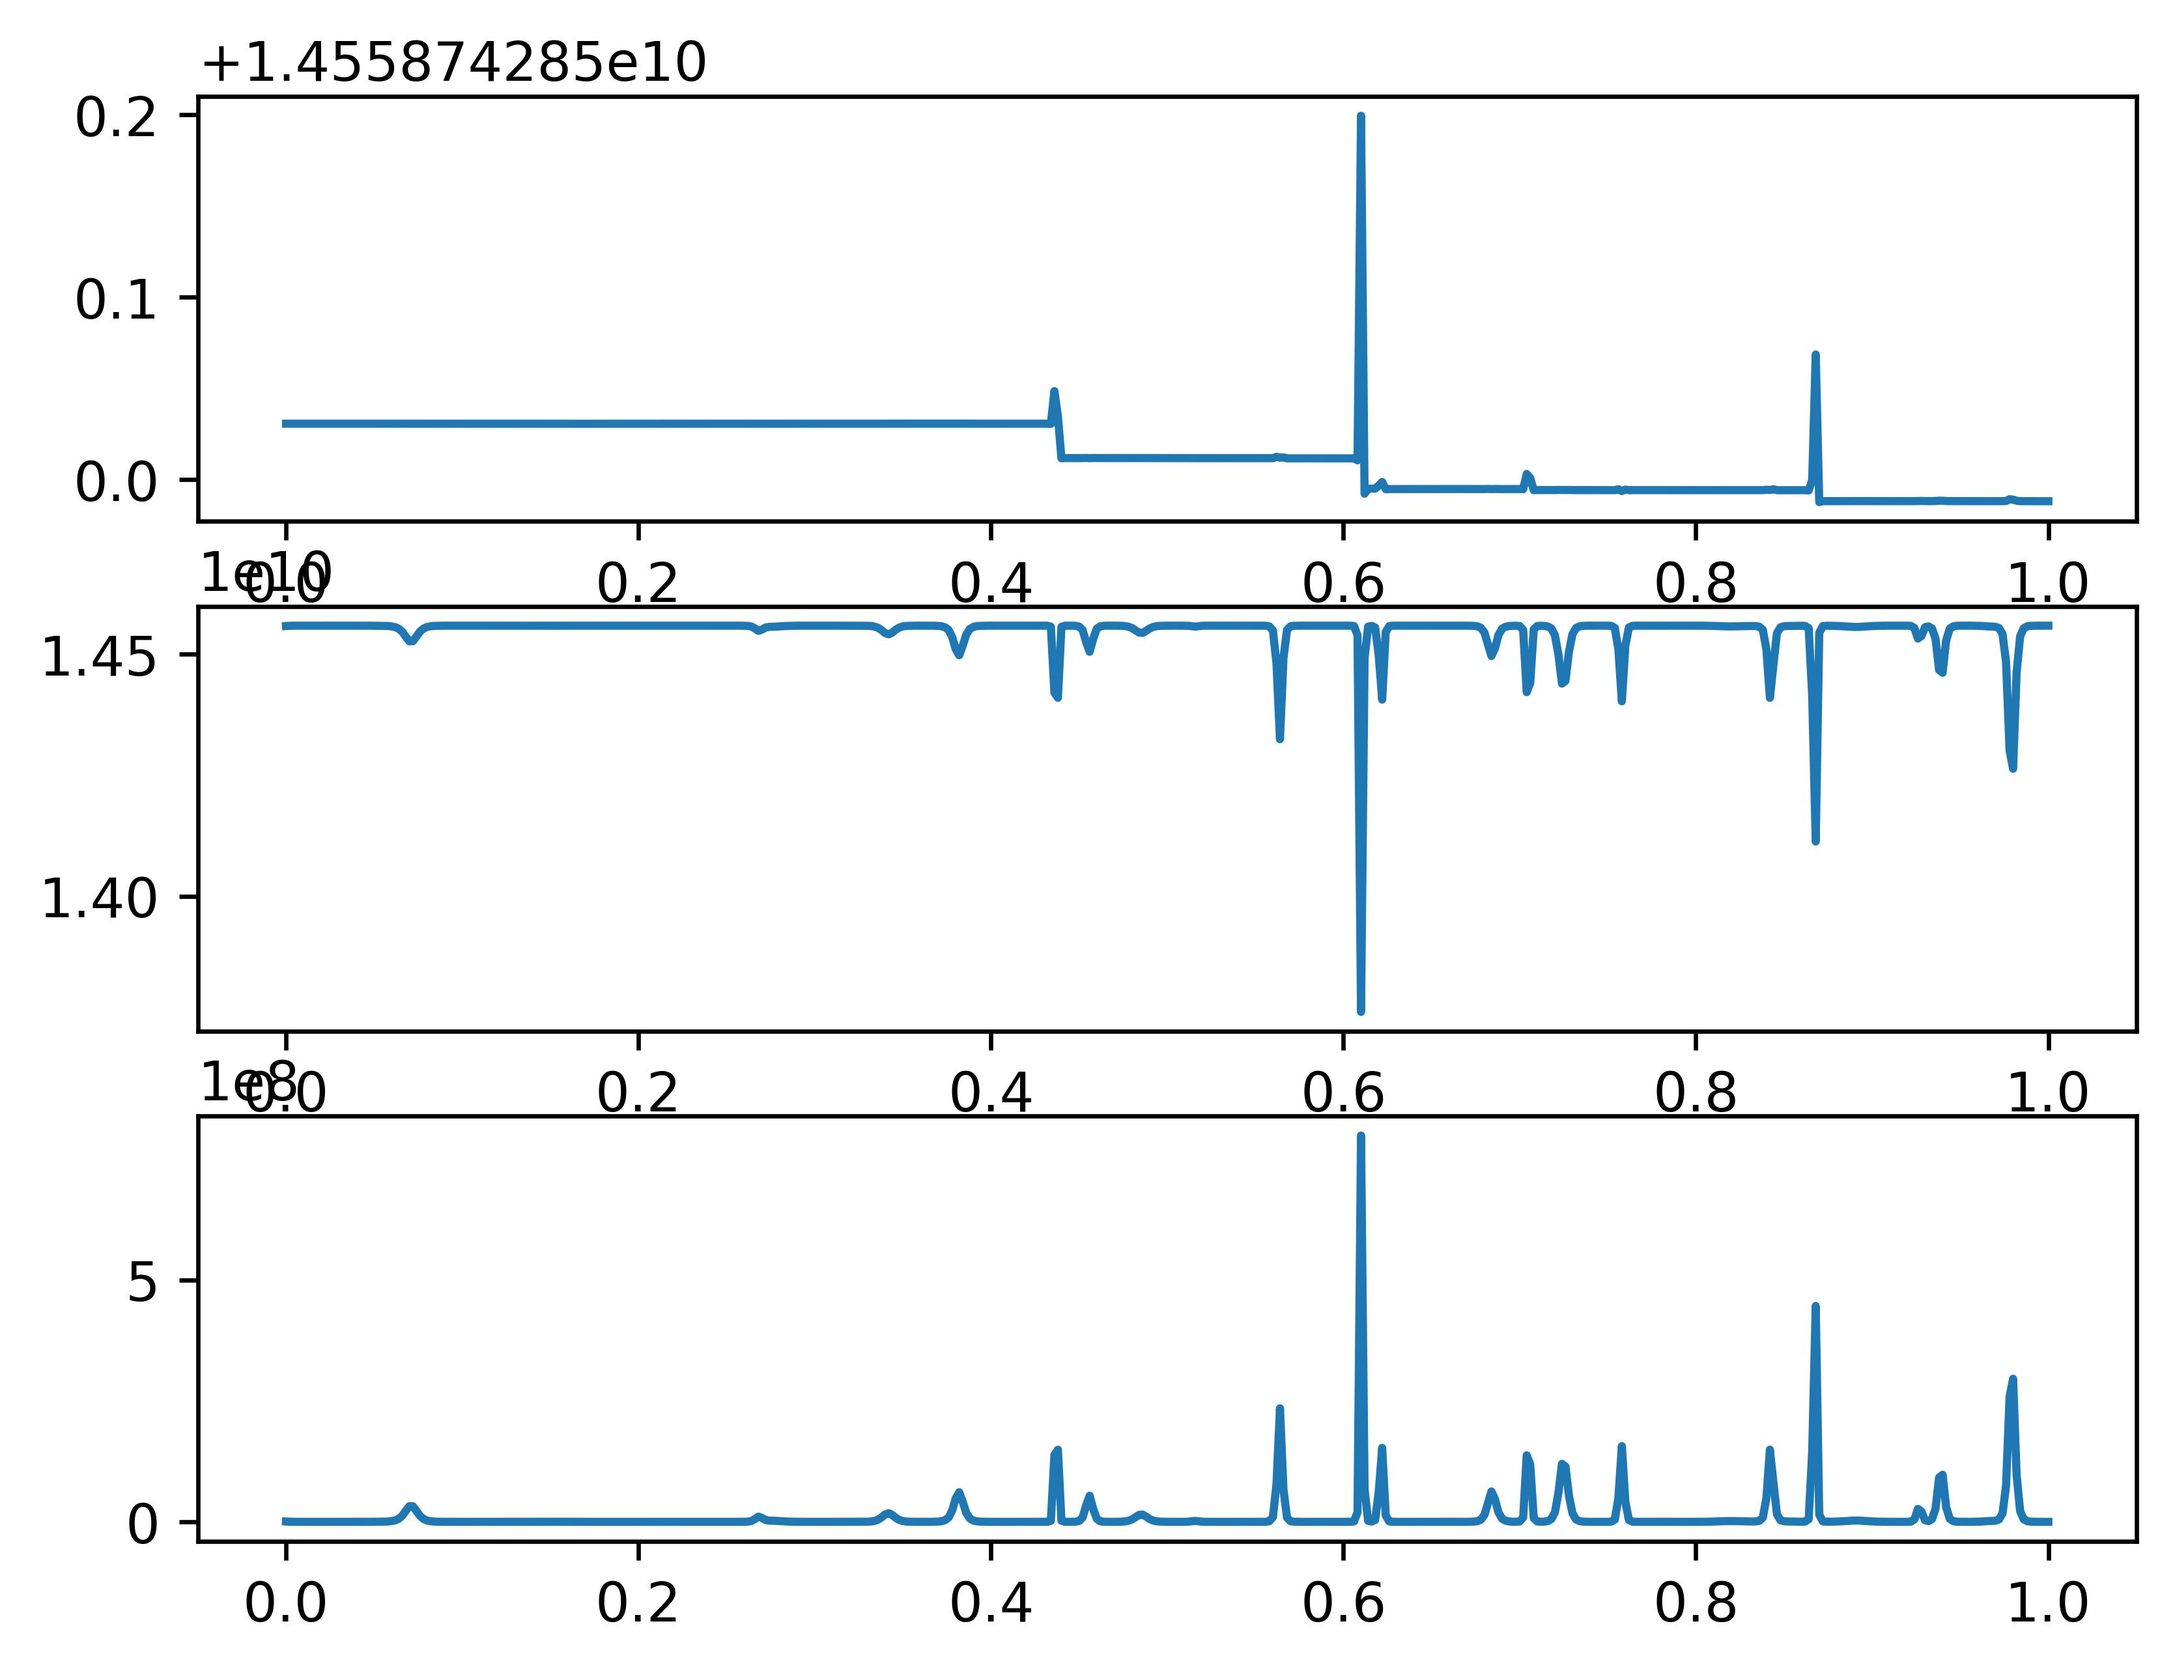
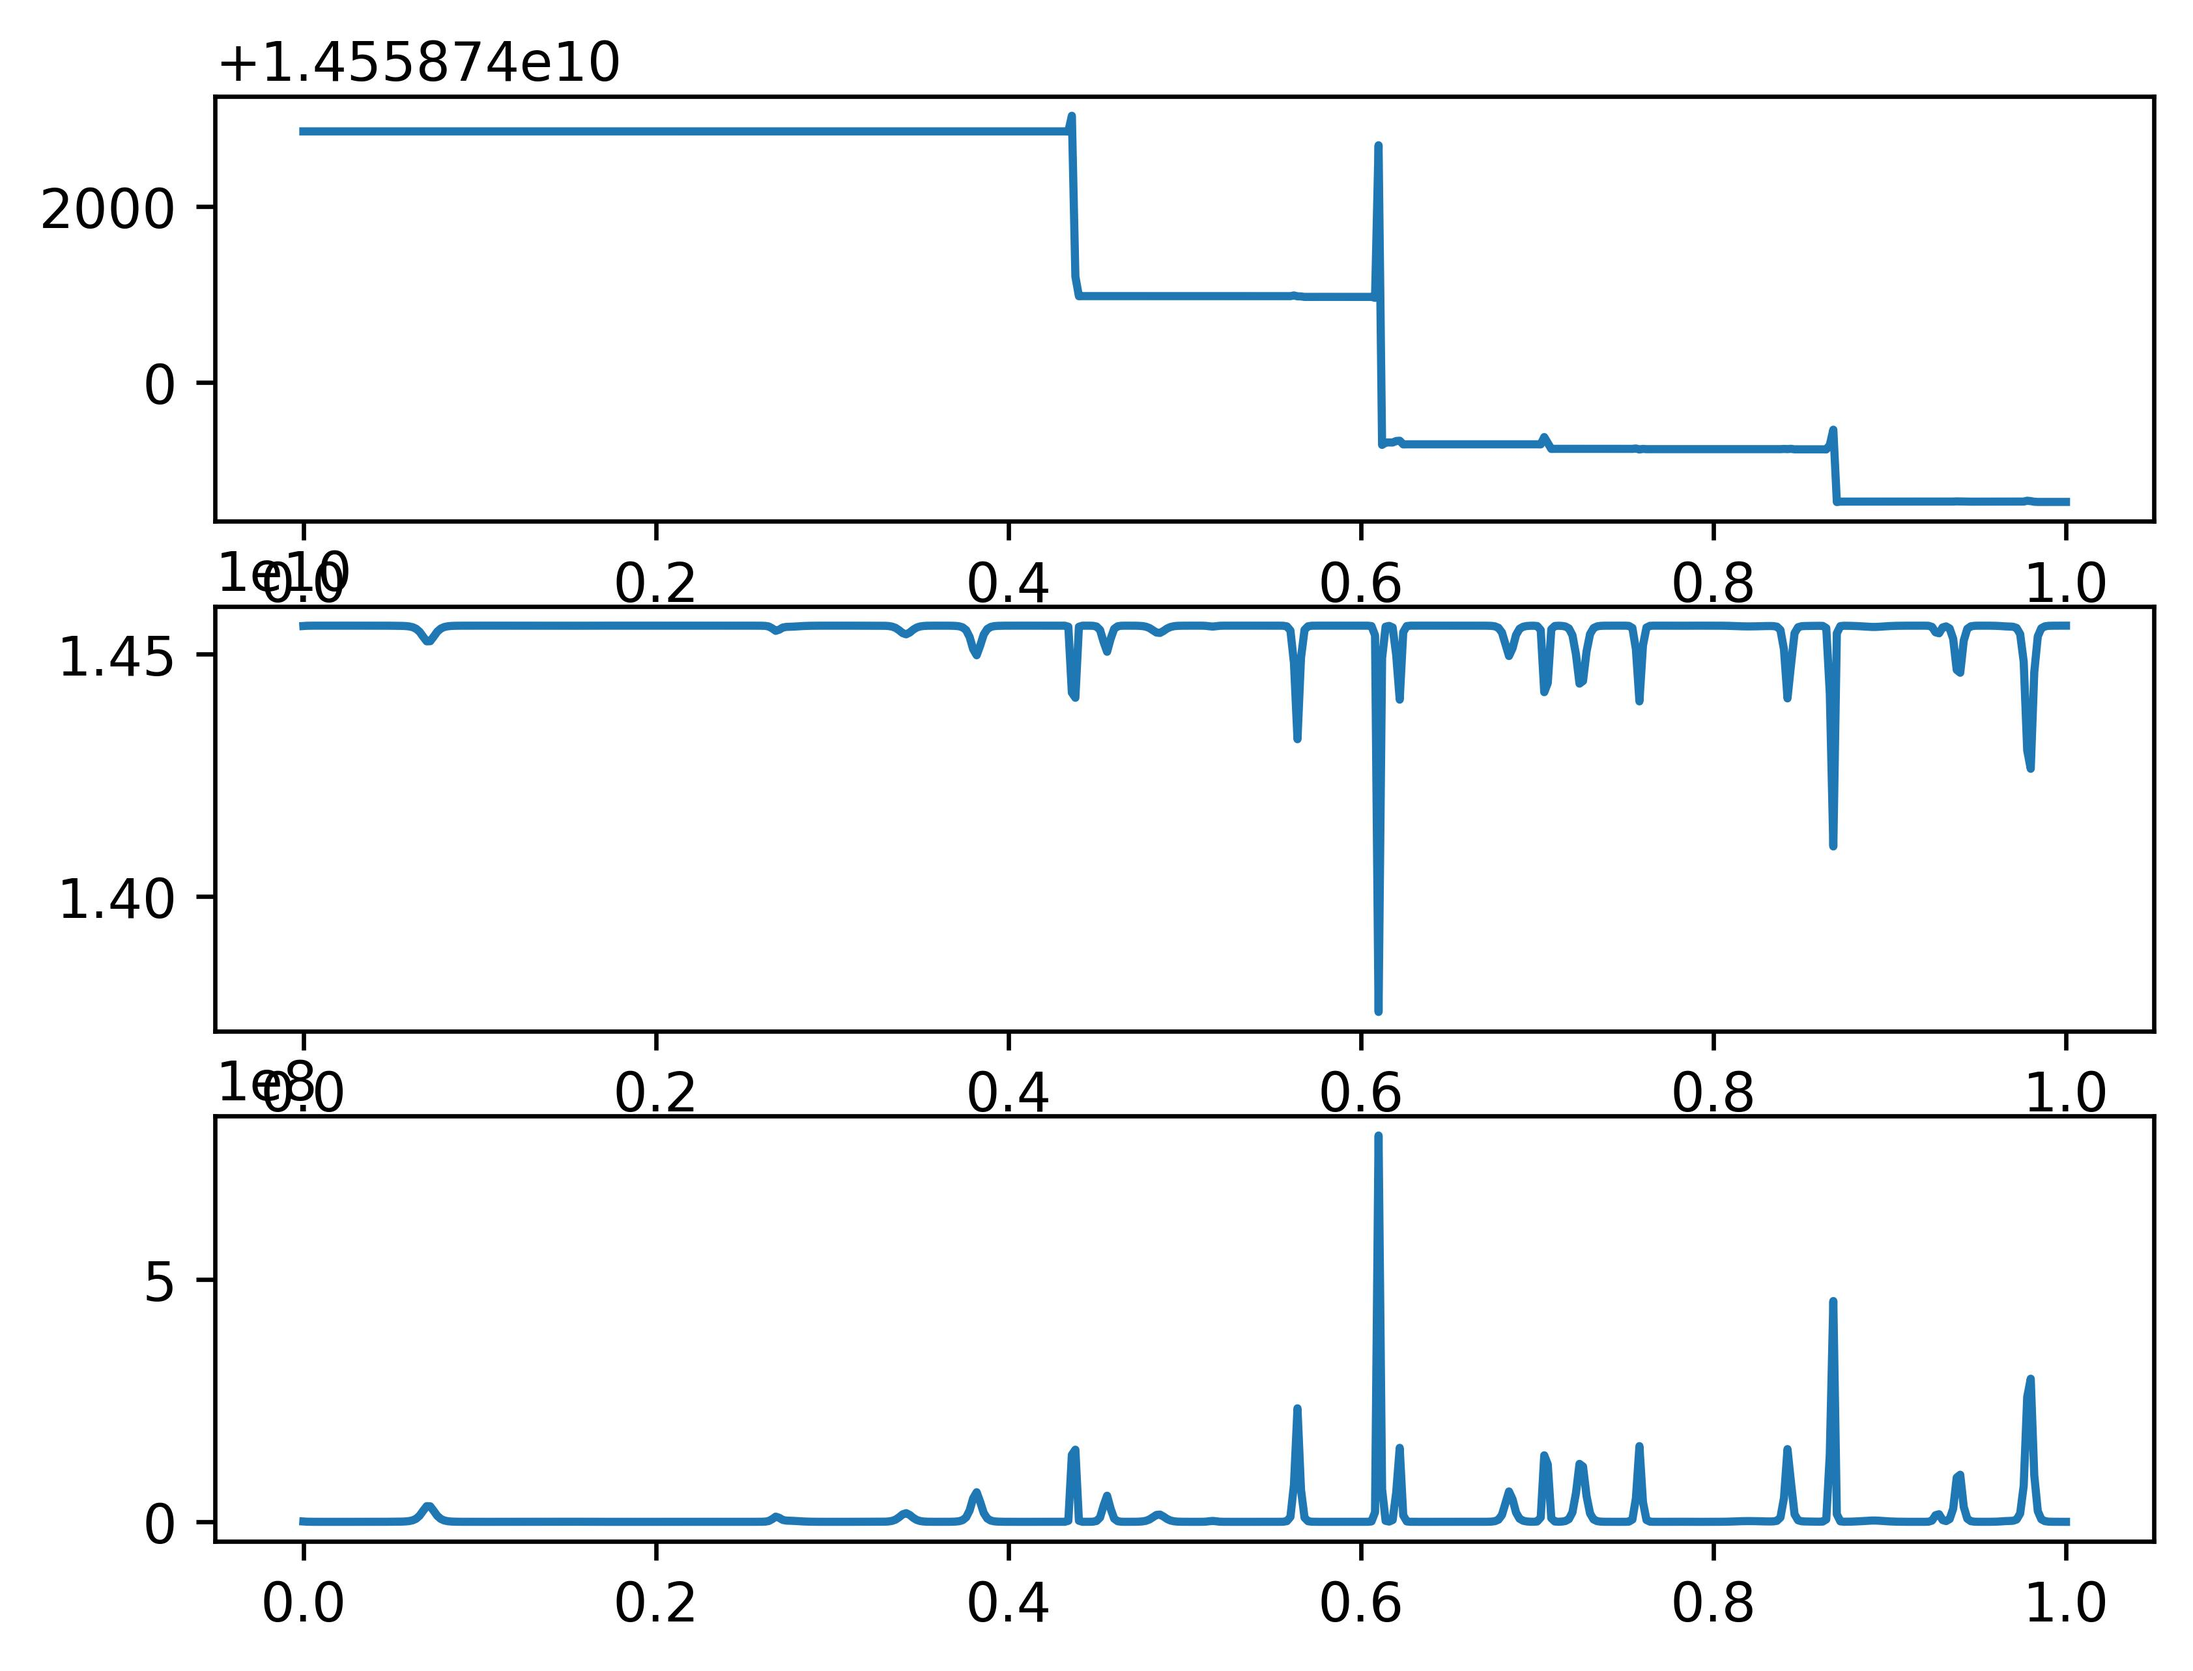
Feb 7th 2024

diff --git a/main3.py b/main3.py
@@ -255,8 +255,8 @@ def run_md_sim(n_points, weight_tensor, r, v, potential, h, n_steps, L, n_record
 
     return trajectory
 
-h = 1e-5
-n_steps = 100000
+h = 1e-4
+n_steps = 10000
 
 trajectory = run_md_sim(
     n_points = n_points, weight_tensor = weight_tensor, r = all_r , v = all_v,
